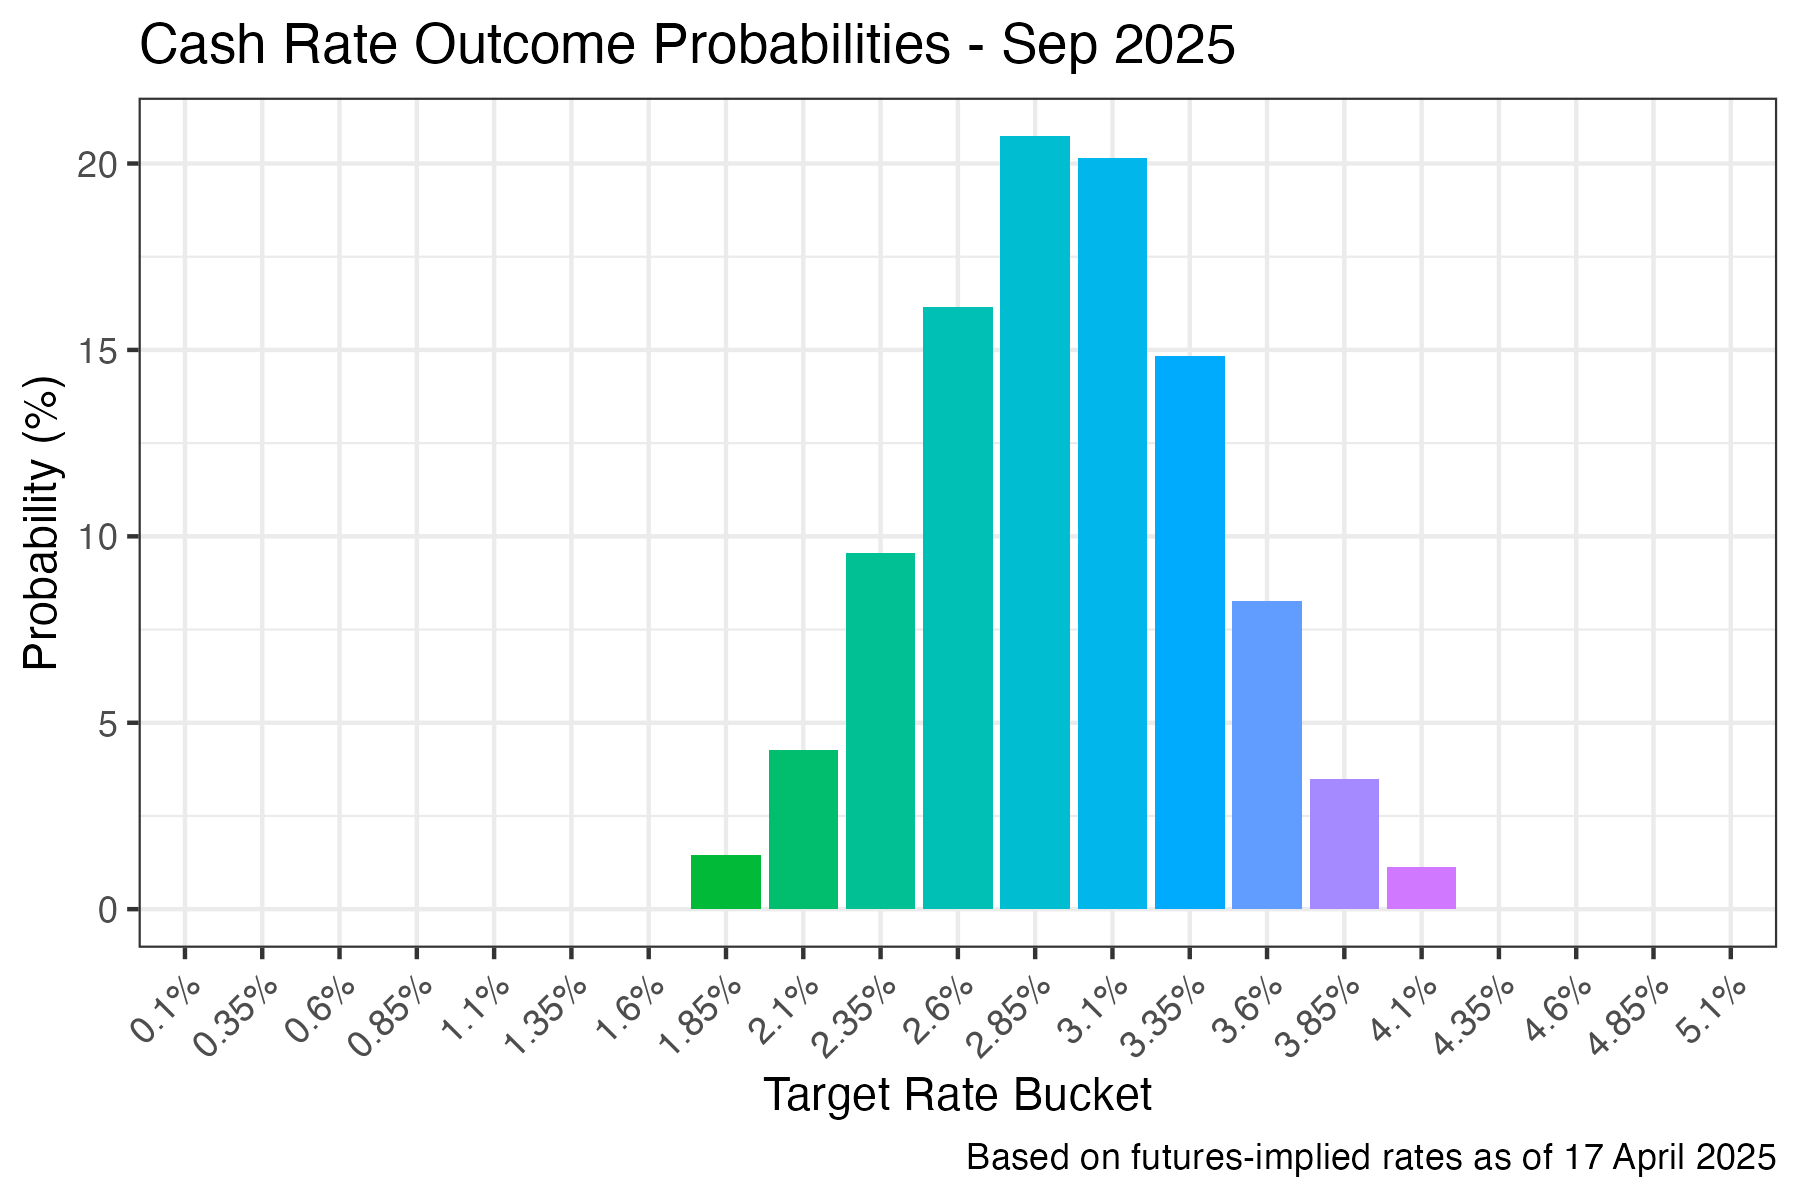
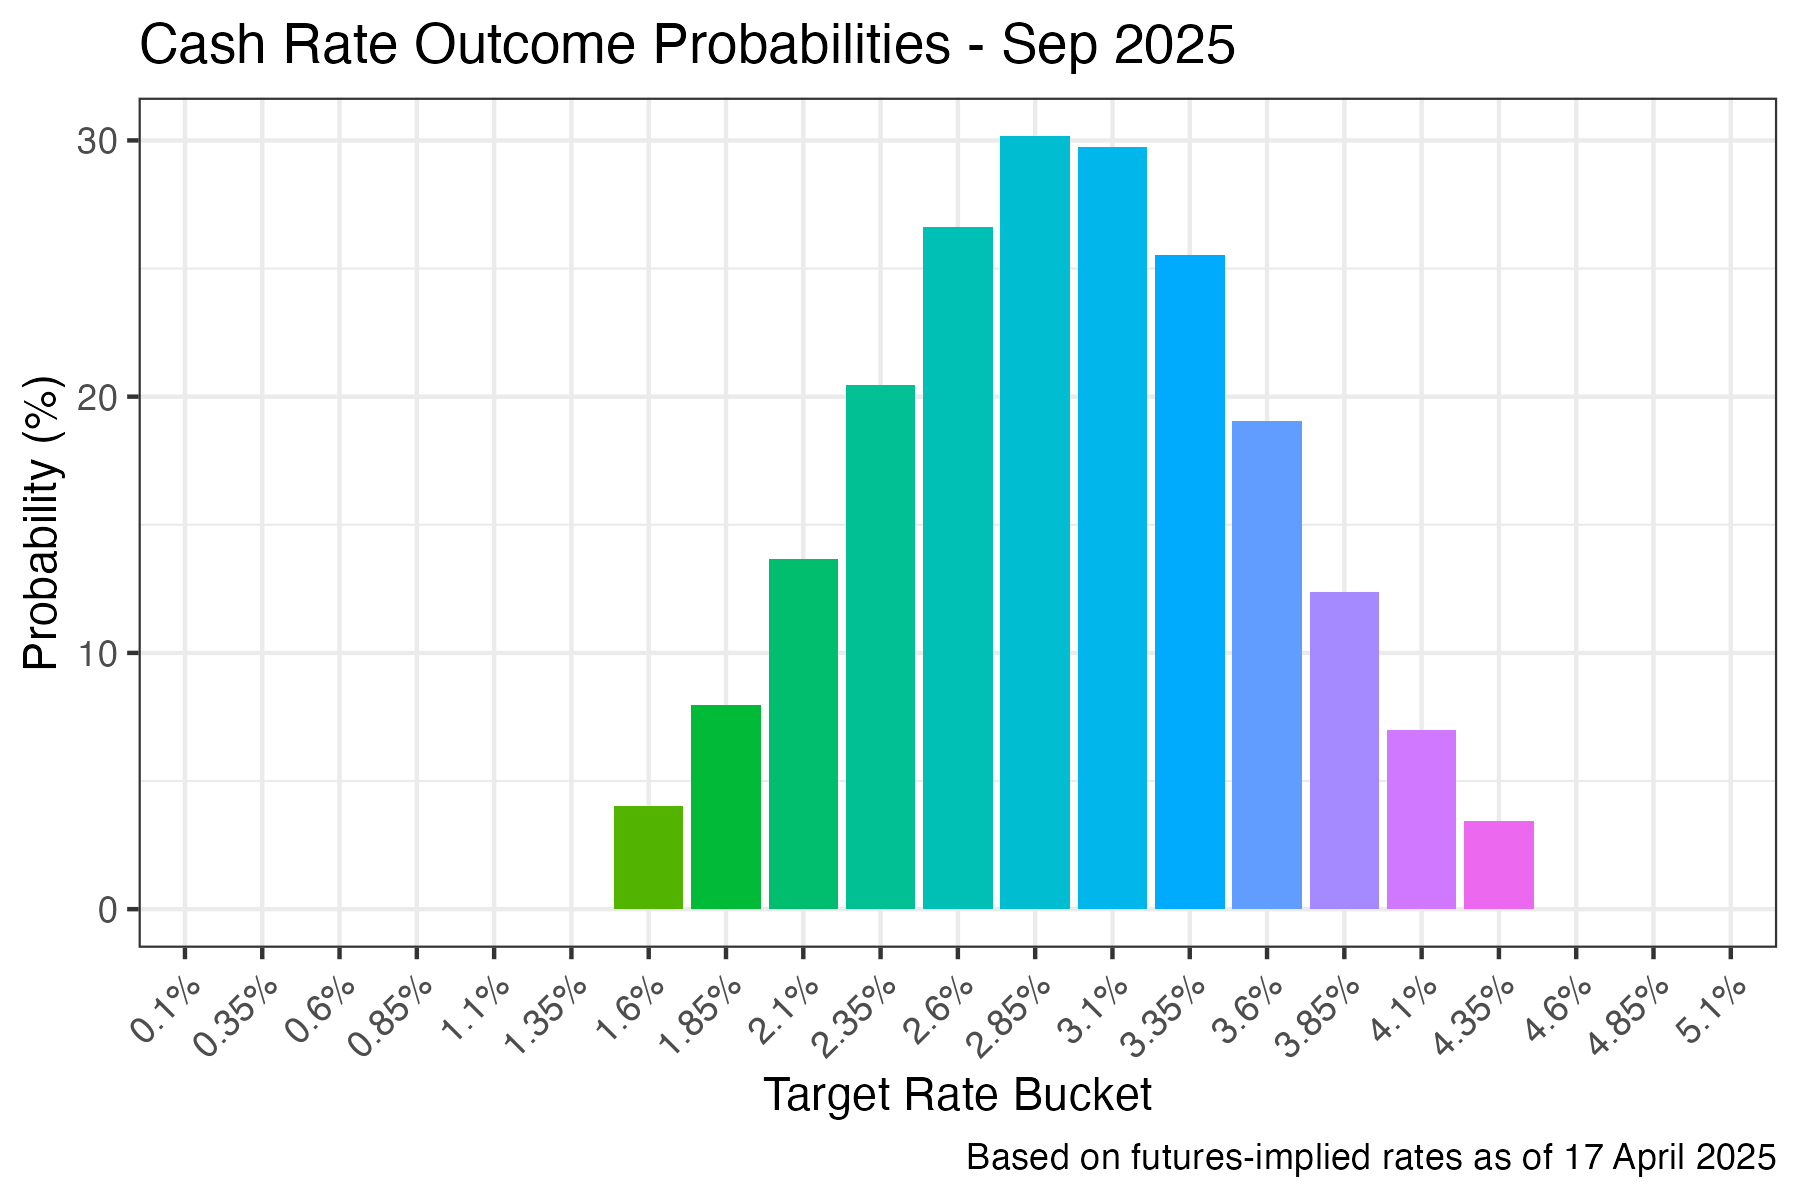
refreshing data

diff --git a/README.html b/README.html
@@ -622,20 +622,24 @@ repo.</p>
 <h1 id="graphs">Graphs!</h1>
 <p>The file <code>R/viz_cash_rate.R</code> produces visualisations of
 this data, which are shown below:</p>
-<pre><code>#&gt; # A tibble: 147 × 4
+<pre><code>#&gt; # A tibble: 294 × 4
 #&gt;    date       bucket probability month_label
 #&gt;    &lt;date&gt;     &lt;chr&gt;        &lt;dbl&gt; &lt;chr&gt;      
-#&gt;  1 2025-04-01 0.1%             0 Apr 2025   
-#&gt;  2 2025-04-01 0.35%            0 Apr 2025   
-#&gt;  3 2025-04-01 0.6%             0 Apr 2025   
-#&gt;  4 2025-04-01 0.85%            0 Apr 2025   
-#&gt;  5 2025-04-01 1.1%             0 Apr 2025   
-#&gt;  6 2025-04-01 1.35%            0 Apr 2025   
-#&gt;  7 2025-04-01 1.6%             0 Apr 2025   
-#&gt;  8 2025-04-01 1.85%            0 Apr 2025   
-#&gt;  9 2025-04-01 2.1%             0 Apr 2025   
-#&gt; 10 2025-04-01 2.35%            0 Apr 2025   
-#&gt; # ℹ 137 more rows
+#&gt;  1 2025-04-01 0.1%            NA Apr 2025   
+#&gt;  2 2025-04-01 0.35%           NA Apr 2025   
+#&gt;  3 2025-04-01 0.6%            NA Apr 2025   
+#&gt;  4 2025-04-01 0.85%           NA Apr 2025   
+#&gt;  5 2025-04-01 1.1%            NA Apr 2025   
+#&gt;  6 2025-04-01 1.35%           NA Apr 2025   
+#&gt;  7 2025-04-01 1.6%            NA Apr 2025   
+#&gt;  8 2025-04-01 1.85%           NA Apr 2025   
+#&gt;  9 2025-04-01 2.1%            NA Apr 2025   
+#&gt; 10 2025-04-01 2.35%           NA Apr 2025   
+#&gt; # ℹ 284 more rows
+#&gt; Warning: Position guide is perpendicular to the intended axis.
+#&gt; ℹ Did you mean to specify a different guide `position`?
+#&gt; Warning: Removed 42 rows containing missing values or values outside the scale range
+#&gt; (`geom_bar()`).
 #&gt; [1] &quot;Apr 2025&quot;
 #&gt; [1] &quot;May 2025&quot;
 #&gt; [1] &quot;Jul 2025&quot;

diff --git a/README.md b/README.md
@@ -29,20 +29,24 @@ Please fork/copy/modify as you see fit.
 The file `R/viz_cash_rate.R` produces visualisations of this data, which
 are shown below:
 
-    #> # A tibble: 147 × 4
+    #> # A tibble: 294 × 4
     #>    date       bucket probability month_label
     #>    <date>     <chr>        <dbl> <chr>      
-    #>  1 2025-04-01 0.1%             0 Apr 2025   
-    #>  2 2025-04-01 0.35%            0 Apr 2025   
-    #>  3 2025-04-01 0.6%             0 Apr 2025   
-    #>  4 2025-04-01 0.85%            0 Apr 2025   
-    #>  5 2025-04-01 1.1%             0 Apr 2025   
-    #>  6 2025-04-01 1.35%            0 Apr 2025   
-    #>  7 2025-04-01 1.6%             0 Apr 2025   
-    #>  8 2025-04-01 1.85%            0 Apr 2025   
-    #>  9 2025-04-01 2.1%             0 Apr 2025   
-    #> 10 2025-04-01 2.35%            0 Apr 2025   
-    #> # ℹ 137 more rows
+    #>  1 2025-04-01 0.1%            NA Apr 2025   
+    #>  2 2025-04-01 0.35%           NA Apr 2025   
+    #>  3 2025-04-01 0.6%            NA Apr 2025   
+    #>  4 2025-04-01 0.85%           NA Apr 2025   
+    #>  5 2025-04-01 1.1%            NA Apr 2025   
+    #>  6 2025-04-01 1.35%           NA Apr 2025   
+    #>  7 2025-04-01 1.6%            NA Apr 2025   
+    #>  8 2025-04-01 1.85%           NA Apr 2025   
+    #>  9 2025-04-01 2.1%            NA Apr 2025   
+    #> 10 2025-04-01 2.35%           NA Apr 2025   
+    #> # ℹ 284 more rows
+    #> Warning: Position guide is perpendicular to the intended axis.
+    #> ℹ Did you mean to specify a different guide `position`?
+    #> Warning: Removed 42 rows containing missing values or values outside the scale range
+    #> (`geom_bar()`).
     #> [1] "Apr 2025"
     #> [1] "May 2025"
     #> [1] "Jul 2025"
